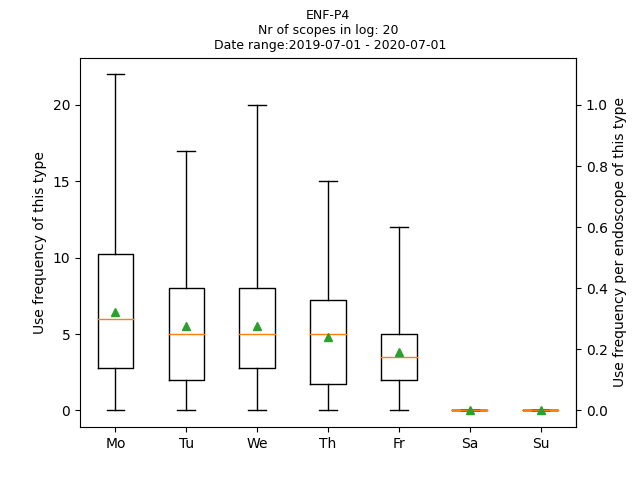
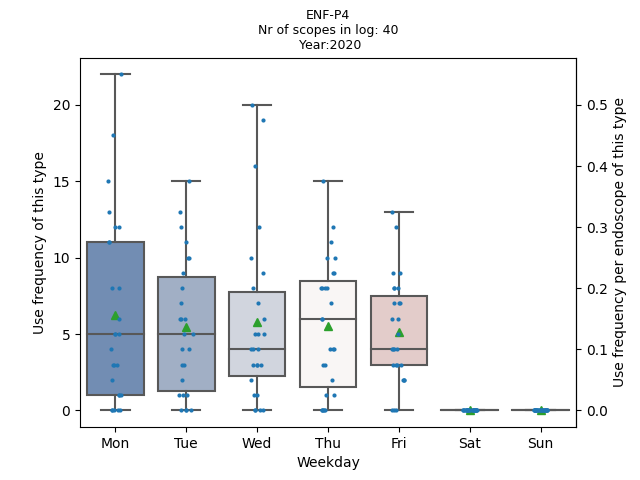
Rewritten code

diff --git a/scopelib.py b/scopelib.py
@@ -10,115 +10,43 @@ def readdata(datafile):
     rawdata=pd.read_excel(datafile) #Process manager export Excel file
     rawdata=rawdata[rawdata['Proces-icoon']=='Succesvol afgerond'] #Only include succesful cleaning cycles
     rawdata['Processtart']=pd.to_datetime(rawdata['Processtart'],format="%d-%m-%Y %H:%M") #Convert date and time to datetime object
-    rawdata.set_index('Processtart', inplace=True, drop=True) #Set date and time as Pandas dataframe index
+    rawdata['Processtart']=rawdata['Processtart'].dt.normalize()
+    rawdata.sort_values(by=['Processtart'])
     return rawdata
 
-def correctdaterange(table,start,end):
-    if start<table.index.min():
-        start=table.index.min()
-        print('Changed start date to first data point')
-    if end>table.index.max():
-        end=table.index.max()
-        print('Changed end date to last data point')
-    if start>end:
-        start=end
-        print('Start date can not be later than end date, no output.')
-    return start,end
-
 def createfrequencytable(daterange,table1,table2,table3):
-    frequencytable=[[],[],[],[],[],[],[]]
+    frequencytable=[]
     for date in daterange:
-        weekday=date.dayofweek
-        perdate=len(table1[table1.index.date==date.date()])+len(table2[table2.index.date==date.date()])+len(table3[table3.index.date==date.date()])
-        frequencytable[weekday].append(perdate)
-    frequencytablepandas=pd.DataFrame(frequencytable).transpose()
-    frequencytablepandas.columns=['Mo','Tu','We','Th','Fr','Sa','Su']
+        year=date.year
+        weeknr=date.week
+        weekday=date.strftime('%a')
+        perdate=len(table1[table1['Processtart']==date])+len(table2[table2['Processtart']==date])+len(table3[table3['Processtart']==date])
+        frequencytable.append([year,weeknr,weekday,perdate])
+    frequencytablepandas=pd.DataFrame(frequencytable, columns = ['Year','Weeknr','Weekday','Frequency'])
     return frequencytablepandas
 
-def freqperweekday(table,scopetype,start,end):
-    table=table[(table.index >= start) & (table.index < end)]
-    daterange=pd.date_range(start=start,end=end)
+def freqperweekday(table,scopetype,year):
+    table=table.loc[table['Processtart'].dt.year==year]
+    daterange=pd.date_range(start=table['Processtart'].min(),end=table['Processtart'].max())
     table1, table2, table3 = (table[table[s].isin(scopetype)] for s in ('Endoscooptype','Endoscooptype 2','Endoscooptype 3'))
-    IDsoftypeinlog=table1['Endoscoop ID'].astype('str')
-    IDsoftypeinlog=IDsoftypeinlog.append(table2['Endoscoop ID 2']).astype('str')
-    IDsoftypeinlog=IDsoftypeinlog.append(table3['Endoscoop ID 3']).astype('str')
+    IDsoftypeinlog=pd.concat([table1['Endoscoop ID'], table2['Endoscoop ID 2'], table3['Endoscoop ID 3']])
+    IDsoftypeinlog.to_excel('test.xlsx')
     frequencytable=createfrequencytable(daterange,table1,table2,table3)
     return frequencytable,IDsoftypeinlog.nunique()
 
-def freqperweekdayperuniquescope(table,serialnumber,start,end):
-    table=table.loc[(table.index >= start) & (table.index < end)]
-    daterange=pd.date_range(start=start,end=end)
-    table1, table2, table3 = (table[table[s].isin(serialnumber)] for s in ('Serienr. endoscoop','Serienr. endoscoop 2','Serienr. endoscoop 3'))
-    frequencytable=createfrequencytable(daterange,table1,table2,table3)
-    return frequencytable
-
-def freqperweekdayperuser(table,scopetype,user,start,end):
-    table=table.loc[(table.index >= start) & (table.index < end)]
-    daterange=pd.date_range(start=start,end=end)
-    table1=table[table['Endoscooptype'].isin(scopetype)]
-    table1=table1[table1['Specialistnaam'].isin(user)]
-    table2=table[table['Endoscooptype 2'].isin(scopetype)]
-    table2=table2[table2['Specialistnaam 2'].isin(user)]
-    table3=table[table['Endoscooptype 3'].isin(scopetype)]
-    table3=table3[table3['Specialistnaam 3'].isin(user)]
-    frequencytable=createfrequencytable(daterange,table1,table2,table3)
-    return frequencytable
-
-def boxplot(rawdata,scopetype,plotfile,start,end,qtyoftype=None):
-    start,end=correctdaterange(rawdata[rawdata['Endoscooptype'].isin(scopetype)],start,end)
-    frequencytable,qtyoftypeinlog=freqperweekday(rawdata,scopetype,start,end)
+def boxplot(rawdata,scopetype,plotfile,year,qtyoftype=None):
+    frequencytable,qtyoftypeinlog=freqperweekday(rawdata,scopetype,year)
     fig, ax = plt.subplots()
-    ax.boxplot(frequencytable.fillna(0),showmeans=True,whis=[0,100],zorder=2)
+    sns.boxplot(data=frequencytable, x='Weekday', y='Frequency',whis=[0, 100],palette="vlag", showmeans=True, order=['Mon','Tue','Wed','Thu','Fri','Sat','Sun'])
+    sns.stripplot(data=frequencytable, x='Weekday', y='Frequency', size=3, order=['Mon','Tue','Wed','Thu','Fri','Sat','Sun'])
     if qtyoftype:
-        ax.set_title(plotfile.split('/')[-1]+'\nNr of scopes: '+str(qtyoftype)+' (Ultimo), '+str(qtyoftypeinlog)+' (Process Manager)\n Date range:'+str(start.date())+' - '+str(end.date()),fontsize=graphfontsize) 
+        ax.set_title(plotfile.split('/')[-1]+'\nNr of scopes: '+str(qtyoftype)+' (Ultimo), '+str(qtyoftypeinlog)+' (Process Manager)\n Date range:'+str(start)+' - '+str(end),fontsize=graphfontsize) 
     else:
         qtyoftype=qtyoftypeinlog
-        ax.set_title(plotfile.split('/')[-1]+'\nNr of scopes in log: '+str(qtyoftype)+'\n Date range:'+str(start.date())+' - '+str(end.date()),fontsize=graphfontsize)
+        ax.set_title(plotfile.split('/')[-1]+'\nNr of scopes in log: '+str(qtyoftype)+'\n Year:'+str(year),fontsize=graphfontsize)
     ax.set_ylabel('Use frequency of this type')
-    ax.set_xticklabels(frequencytable.columns)
     secax = ax.secondary_yaxis('right', functions=(lambda x: x / qtyoftype, lambda x: x * qtyoftype))
     secax.set_ylabel('Use frequency per endoscope of this type')
 
     plt.savefig(plotfile+'.png')
     plt.close()
-
-def violinplot(rawdata,scopetype,plotfile,start,end,qtyoftype=None):
-    start,end=correctdaterange(rawdata[rawdata['Endoscooptype'].isin(scopetype)],start,end)
-    frequencytable,qtyoftypeinlog=freqperweekday(rawdata,scopetype,start,end)
-    fig, ax = plt.subplots()
-    sns.scatterplot(data=frequencytable.fillna(0).mean(),zorder=10)
-    sns.violinplot(data=frequencytable.fillna(0),cut=0)
-    if qtyoftype:
-        ax.set_title(plotfile.split('/')[-1]+'\nNr of scopes: '+str(qtyoftype)+' (Ultimo), '+str(qtyoftypeinlog)+' (Process Manager)\n Date range:'+str(start.date())+' - '+str(end.date()),fontsize=graphfontsize) 
-    else:
-        qtyoftype=qtyoftypeinlog
-        ax.set_title(plotfile.split('/')[-1]+'\nNr of scopes in log: '+str(qtyoftype)+'\n Date range:'+str(start.date())+' - '+str(end.date()),fontsize=graphfontsize)
-    ax.set_ylabel('Use frequency of this type')
-    secax = ax.secondary_yaxis('right', functions=(lambda x: x / qtyoftype, lambda x: x * qtyoftype))
-    secax.set_ylabel('Use frequency per endoscope of this type')
-    plt.savefig(plotfile+'_violin.png')
-    plt.close()
-
-def boxplotuniquescope(rawdata,serialnr,plotfile,start,end):
-    start,end=correctdaterange(rawdata[rawdata['Serienr. endoscoop'].isin(serialnr)],start,end)
-    frequencytable=freqperweekdayperuniquescope(rawdata,serialnr,start,end)
-    fig, ax = plt.subplots()
-    ax.boxplot(frequencytable.fillna(0),showmeans=True,whis=[0,100],zorder=2)
-    ax.set_ylabel('Use frequency of this scope')
-    ax.set_xticklabels(frequencytable.columns)
-    plt.title(plotfile.split('/')[-1]+'\n'+str(start.date())+' - '+str(end.date()),fontsize=graphfontsize)
-    plt.savefig(plotfile+'.png')
-    plt.close()
-
-def boxplotperuser(rawdata,scopetype,user,plotfile,start,end):
-    start,end=correctdaterange(rawdata[rawdata['Specialistnaam'].isin(user)],start,end)
-    frequencytable=freqperweekdayperuser(rawdata,scopetype,user,start,end)
-    if np.max(np.max(frequencytable.fillna(0)))>0:
-        fig,ax = plt.subplots()
-        ax.boxplot(frequencytable.fillna(0),showmeans=True,whis=[0,100],zorder=2)
-        ax.set_ylabel('Use frequency of this scope')
-        ax.set_xticklabels(frequencytable.columns)        
-        plt.title(plotfile.split('/')[-1]+'\n'+str(start.date())+' - '+str(end.date()),fontsize=graphfontsize)
-        plt.savefig(plotfile+'.png')
-        plt.close()
-    else: pass

diff --git a/runexample.py b/runexample.py
@@ -1,16 +1,14 @@
 import scopelib
 import pandas as pd
-import datetime
 import numpy as np
-import matplotlib.pyplot as plt
 
 useinventorydata=False #Use inventory data for scope quantity (for example an Ultimo export). If false unique scope ID's from process manager export will be used.
 
 #Input data
 rawdata=scopelib.readdata('ProcessList_example.xls')
 #ultimodump=pd.read_excel('Equipment_Instrument.xls', skiprows=1) #Ultimo inventory list scopes
-start = datetime.datetime.strptime('2019-07-01', '%Y-%m-%d') #start date
-end = datetime.datetime.strptime('2020-07-01', '%Y-%m-%d') #end date
+
+year=2020
 
 uniquescopes=pd.unique(rawdata[['Endoscooptype','Endoscooptype 2','Endoscooptype 3']].values.ravel('K'))
 uniquescopes=np.delete(uniquescopes,np.where(uniquescopes=="-")) #Excluding empty values in the raw data (presented as '-'). 
@@ -19,12 +17,10 @@ if useinventorydata:
     for scope in uniquescopes:
         qtyoftype=(len(ultimodump[ultimodump['Typenr.'] == scope]))
         if qtyoftype > 0:
-            scopelib.boxplot(rawdata,[scope],str(scope),start,end,qtyoftype)
-            scopelib.violinplot(rawdata,[scope],str(scope),start,end,qtyoftype)
+            scopelib.boxplot(rawdata,[scope],str(scope),year,qtyoftype)
 else:
     for scope in uniquescopes:
-        scopelib.boxplot(rawdata,[scope],str(scope),start,end)
-        scopelib.violinplot(rawdata,[scope],str(scope),start,end)
+        scopelib.boxplot(rawdata,[scope],str(scope),year)
 
 
 ##combine multiple scopes in one boxplot, for example combining comparable scopes.

diff --git a/README.md b/README.md
@@ -1,12 +1,11 @@
 # Endoscope Disinfect Analysis
 
 ![Example boxplot](ENF-P4.png)
-![Example violinplot](ENF-P4_violin.png)
 
-This script analyzes raw export data from Wassenburg Process Manager to generate box plots and violin plots containing per weekday use/disinfection frequency of flexible endoscopes. It automatically generates plots for every scope type in the export data. This allows for an accurate determination of the number of required endoscopes in a clinical setting.
+This script analyzes raw export data from Wassenburg Process Manager to generate box plots containing per weekday use/disinfection frequency of flexible endoscopes. It automatically generates plots for every scope type in the export data. This allows for an accurate determination of the number of required endoscopes in a clinical setting.
 
 An example Process Manager file is provided. Run runexample.py to generate the plots show above. It is also possible to group scopes that are interchangeable in clinical practice in one graph.
 
 The titles of the columns in your Process Manager export file may not be identical to the ones used in this script. If this is the case, change them to the corresponding titles in your export file.
 
-Note: The whiskers of the box plot show the minimum and maximum use frequency, the orange lines show the median use frequency and the green triangles show the mean use frequency. The white dots in the violin plots show the median use frequency while the blue circles show the mean use frequency.
+Note: The whiskers of the box plot show the minimum and maximum use frequency and the green triangles show the mean use frequency.
